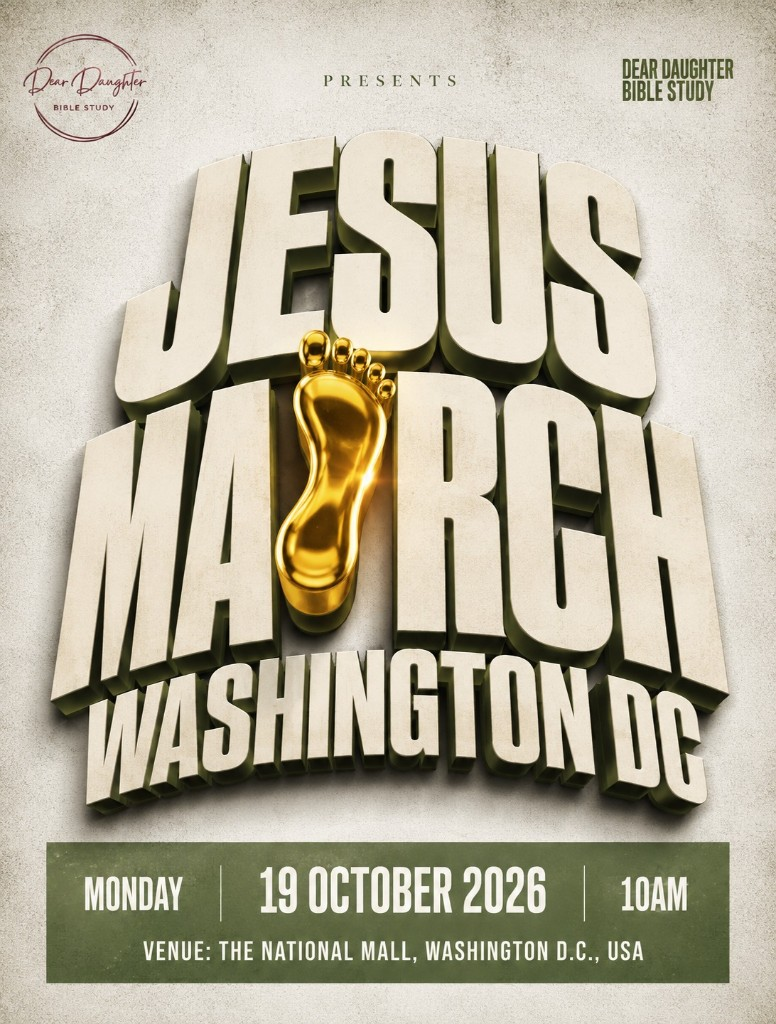
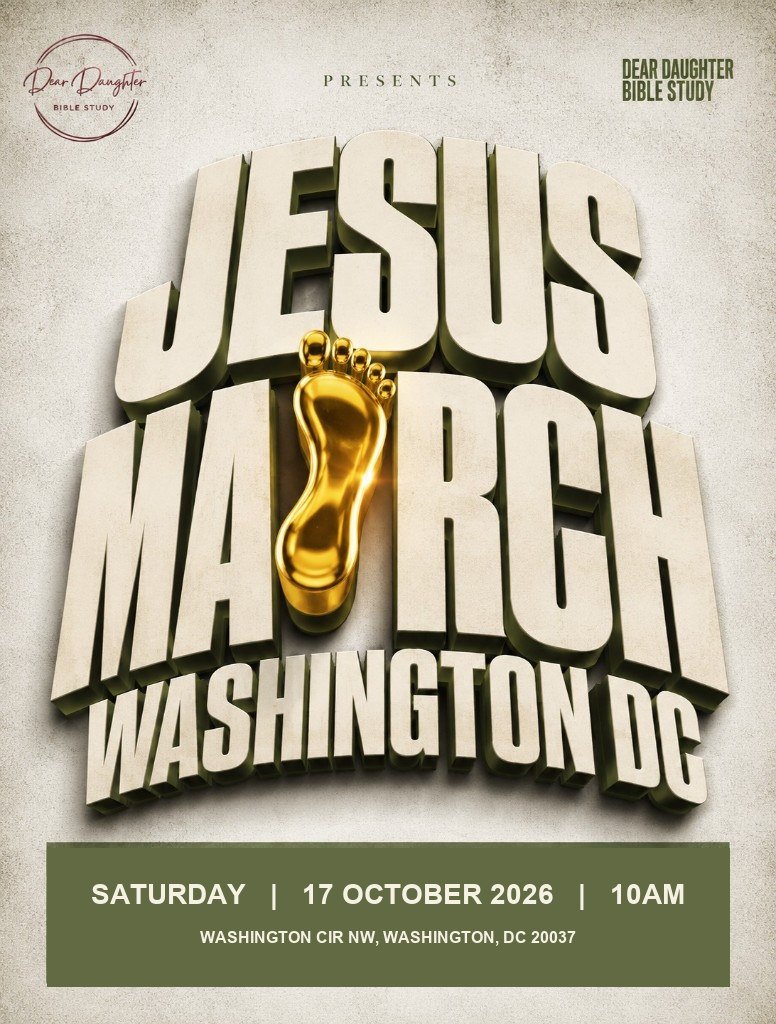
Correct the DC flyer to October 17 at Washington Cir NW and flesh out chapter planting.

Changed region(s): [[0.0619, 0.8125, 0.9588, 0.9688]]

diff --git a/src/app/chapters/page.tsx b/src/app/chapters/page.tsx
@@ -8,45 +8,62 @@ import { chapterKinds, organizer } from "@/lib/content";
 export const metadata: Metadata = {
   title: "Start a Bible Study Chapter",
   description:
-    "Plant a Dear Daughter Bible Study chapter in your state, city, or on a campus. Request a gathering and we will walk with you in the undiluted Word of God.",
+    "Plant a Dear Daughter Bible Study chapter in your city, state, or on a campus. Pray, form a core team, train in the Word, launch, and stay connected to the family.",
 };
 
 const tracks = [
   {
     title: "City & state chapters",
-    body: "Living in another state or a new city? Request a Dear Daughter Bible Study gathering. We will come teach the undiluted Word and walk with you as a local chapter takes root.",
+    body: "Like a satellite of the Houston study: a trained gathering in a new city that stays connected to Dear Daughter Bible Study Group each week. Meet in a home, a church (as guests), or a community room.",
   },
   {
     title: "Campus chapters",
-    body: "Students, staff, or a church near campus can host the study at school. Tell us your college — we will follow up, pray with you, and help you gather.",
+    body: "Students, staff, or a nearby church host the study where people already live and learn. Pray over the campus, find open hearts, gather a core team, and launch a weekly study.",
   },
 ];
 
-const steps = [
+const phases = [
   {
-    n: "1",
-    title: "Tell us where you are",
-    body: "City, state, or campus. We need a name, a place, and a willing heart — not a polished ministry plan.",
+    name: "Prepare",
+    kicker: "Pray first",
+    items: [
+      {
+        title: "Pray over the place",
+        body: "Walk the campus or the neighborhood. Ask the Lord who is already hungry for the Word — people of peace who will help you gather.",
+      },
+      {
+        title: "Send the request",
+        body: "Fill out the form. Dear Daughter Bible Study Group follows up from Houston, prays with you, and walks the planting with you. You are not doing this alone.",
+      },
+    ],
   },
   {
-    n: "2",
-    title: "We follow up",
-    body: "Dear Daughter Bible Study Group will reach out from Houston. We pray with you, hear the assignment, and talk through next steps.",
+    name: "Build",
+    kicker: "Don’t plant alone",
+    items: [
+      {
+        title: "Name a core team",
+        body: "Invite two or three faithful people before you launch publicly. Share the vision. A chapter needs more than one person carrying it.",
+      },
+      {
+        title: "Train in the Word",
+        body: "We send weekly materials and discussion guides. Class of David trains Glory-Carriers who can teach the undiluted Word. Your gathering stays connected to the established study, like a satellite class.",
+      },
+    ],
   },
   {
-    n: "3",
-    title: "Stay in the Word together",
-    body: "Chapters use weekly materials and discussion guides. Class of David trains Glory-Carriers who can teach the undiluted Word.",
-  },
-  {
-    n: "4",
-    title: "Gather — we come, or we walk with you",
-    body: "You can request that we come to your community. Campus chapters often start with a small, faithful group and grow from there.",
-  },
-  {
-    n: "5",
-    title: "Stay in the family",
-    body: "Thursday Zoom prayer, Jesus March, Houston Prayer City, and the work in Tulsa, D.C., and Nigeria. A chapter is not a new denomination — it is this same study in a new place.",
+    name: "Launch & grow",
+    kicker: "Then go public",
+    items: [
+      {
+        title: "Host the first gathering",
+        body: "Set a regular place and time. Invite openly. Keep it simple: Scripture, discussion, prayer, and a clear gospel. If your campus requires a student organization, we will help you think that through.",
+      },
+      {
+        title: "Stay in the family",
+        body: "Weekly Word, Thursday Zoom prayer, Jesus March, and the work in Houston, Tulsa, D.C., and Nigeria. Multiply by making disciples — not by becoming a new denomination.",
+      },
+    ],
   },
 ];
 
@@ -63,15 +80,15 @@ export default function ChaptersPage() {
             <span className="block text-gold">Bible study chapter</span>
           </h1>
           <p className="mx-auto mt-5 max-w-2xl text-base text-white/90 sm:text-lg md:mx-0">
-            Plant the study in another state, another city, or on a campus. {organizer.credit} You
-            can request a gathering in your community — and we will come.
+            Plant the study in another state, another city, or on a campus. Pray, gather a core team,
+            train in the Word, launch, and stay connected. {organizer.credit}
           </p>
           <div className="mt-8 flex w-full flex-col gap-3 sm:max-w-md sm:flex-row">
             <ButtonLink href="#start-chapter" className="w-full sm:w-auto">
               Request a chapter
             </ButtonLink>
-            <ButtonLink href="/#family" variant="light" className="w-full sm:w-auto">
-              About the study
+            <ButtonLink href="#how" variant="light" className="w-full sm:w-auto">
+              See the path
             </ButtonLink>
           </div>
         </div>
@@ -79,10 +96,10 @@ export default function ChaptersPage() {
 
       <section className="bg-white px-4 py-12 sm:px-5 md:py-20">
         <div className="mx-auto max-w-7xl">
-          <Kicker>Two ways to plant</Kicker>
-          <h2 className="mt-3 text-3xl font-bold text-midnight sm:text-4xl">States, cities, and campuses</h2>
+          <Kicker>Two kinds of chapters</Kicker>
+          <h2 className="mt-3 text-3xl font-bold text-midnight sm:text-4xl">Cities, states, and campuses</h2>
           <p className="mt-4 max-w-2xl text-ink-3">
-            {organizer.summary} The same Word. A new living room, church, or campus room.
+            {organizer.summary} The same undiluted Word. A new living room, church, or campus room.
           </p>
           <div className="mt-10 grid gap-6 md:grid-cols-2">
             {tracks.map((track) => (
@@ -95,19 +112,32 @@ export default function ChaptersPage() {
         </div>
       </section>
 
-      <section className="bg-mist px-4 py-12 sm:px-5 md:py-20">
+      <section id="how" className="scroll-mt-24 bg-mist px-4 py-12 sm:px-5 md:py-20">
         <div className="mx-auto max-w-7xl">
-          <Kicker>How a chapter begins</Kicker>
-          <h2 className="mt-3 text-3xl font-bold text-midnight sm:text-4xl">This is the path</h2>
-          <ol className="mt-10 grid gap-4 md:grid-cols-2 lg:grid-cols-5">
-            {steps.map((step) => (
-              <li key={step.n} className="rounded-3xl bg-white p-5">
-                <p className="text-sm font-black text-gold">{step.n}</p>
-                <h3 className="mt-2 text-lg font-bold text-midnight">{step.title}</h3>
-                <p className="mt-2 text-sm text-ink-3">{step.body}</p>
-              </li>
+          <Kicker>How chapters are planted</Kicker>
+          <h2 className="mt-3 text-3xl font-bold text-midnight sm:text-4xl">Prepare. Build. Launch.</h2>
+          <p className="mt-4 max-w-2xl text-ink-3">
+            Healthy plants start in prayer, grow with a core team, train before they go public, and
+            stay tied to the sending family. That is how we plant Dear Daughter chapters.
+          </p>
+          <div className="mt-10 grid gap-6 lg:grid-cols-3">
+            {phases.map((phase) => (
+              <article key={phase.name} className="rounded-3xl bg-white p-5 sm:p-8">
+                <p className="text-[10px] font-black tracking-[0.18em] text-gold uppercase">{phase.kicker}</p>
+                <h3 className="mt-2 text-2xl font-bold text-midnight">{phase.name}</h3>
+                <ol className="mt-6 space-y-5">
+                  {phase.items.map((item, i) => (
+                    <li key={item.title}>
+                      <p className="text-sm font-black text-navy">
+                        {i + 1}. {item.title}
+                      </p>
+                      <p className="mt-1 text-sm text-ink-3">{item.body}</p>
+                    </li>
+                  ))}
+                </ol>
+              </article>
             ))}
-          </ol>
+          </div>
         </div>
       </section>
 
@@ -116,25 +146,24 @@ export default function ChaptersPage() {
           <div>
             <Kicker tone="dark">Campus chapters</Kicker>
             <h2 className="mt-3 text-3xl font-bold sm:text-4xl">Bring the study to school</h2>
-            <p className="mt-4 text-white/85">
-              College is a door. A campus chapter is a Dear Daughter Bible Study that meets where
-              students already live, learn, and decide who they will follow.
-            </p>
             <ul className="mt-6 space-y-3 text-white/85">
-              <li>Open to men and women — students, staff, and friends nearby.</li>
-              <li>Start small. A faithful handful in the Word is a chapter.</li>
-              <li>If your school has a student-organization process, note that on the form and we will help you think it through.</li>
-              <li>Stay connected to Thursday prayer and the wider family, so you are not carrying this alone.</li>
+              <li>Pray on campus before you advertise. Ask the Lord for open, networked students.</li>
+              <li>Build a small leadership team. Don’t launch as a one-person club.</li>
+              <li>Keep a weekly rhythm: Word, discussion, prayer — then send people back to their friends.</li>
+              <li>If your school requires a recognized student organization, say so on the form. We will help you walk that.</li>
+              <li>Stay on Thursday Zoom prayer so Houston is covering you.</li>
             </ul>
           </div>
           <div>
             <Kicker tone="dark">City &amp; state chapters</Kicker>
             <h2 className="mt-3 text-3xl font-bold sm:text-4xl">The Word in your city</h2>
-            <p className="mt-4 text-white/85">
-              {organizer.body[0]} We meet with weekly materials and discussion guides, Class of David
-              training, and daily prayer.
-            </p>
-            <p className="mt-4 text-white/85">{organizer.body[2]}</p>
+            <ul className="mt-6 space-y-3 text-white/85">
+              <li>{organizer.body[0]}</li>
+              <li>Start as a satellite gathering connected to the Houston study — weekly materials, discussion guides, and a trained leader.</li>
+              <li>Churches can host without the study becoming a church program. Homes and community rooms work too.</li>
+              <li>As the group grows, form a prayer covering and raise local leadership through Class of David.</li>
+              <li>You can still request that we come in person to teach and help you launch.</li>
+            </ul>
           </div>
         </div>
       </section>
@@ -145,8 +174,8 @@ export default function ChaptersPage() {
             <Kicker>Send the request</Kicker>
             <h2 className="mt-3 text-3xl font-bold text-midnight sm:text-4xl">We’ll walk with you</h2>
             <p className="mt-4 text-ink-3">
-              Tell us whether this is a city, a state, or a campus. We follow up from Dear Daughter
-              Bible Study Group — the same family that organizes Jesus March.
+              The first step every planting ministry uses is the same: tell someone. We follow up,
+              coach the next steps, and stay with you through launch.
             </p>
             <p className="mt-4 text-sm text-muted">
               Our vision is to teach the undiluted Word of God to all nations and to make disciples
@@ -174,7 +203,8 @@ export default function ChaptersPage() {
                 { name: "city", label: "City", required: true },
                 { name: "state", label: "State", required: true },
                 { name: "campus", label: "Campus / school (if this is a campus chapter)" },
-                { name: "note", label: "When, where, and who is gathering with you?" },
+                { name: "team", label: "Who else is on your core team?" },
+                { name: "note", label: "Place, day/time, and anything we should pray into" },
               ]}
             />
           </div>

diff --git a/src/app/dc/page.tsx b/src/app/dc/page.tsx
@@ -15,17 +15,17 @@ const stamps = ["repeat", "logo", "date", "none"] as const;
 const dcStamp = {
   repeatLabel: "Jesus March DC",
   dateLabel: "Oct 17",
-  dateExtra: " · Washington Circle",
+  dateExtra: " · Washington Cir NW",
 };
 
 export const metadata: Metadata = {
   title: "Jesus March Washington DC",
   description:
-    "Join Jesus March Washington DC on Saturday, October 17, 2026, starting at Washington Circle. Worship, pray, and preach Jesus with Dear Daughter Bible Study Group.",
+    "Join Jesus March Washington DC on Saturday, October 17, 2026, starting at Washington Cir NW, Washington, DC 20037. Worship, pray, and preach Jesus with Dear Daughter Bible Study Group.",
   openGraph: {
     title: "Jesus March Washington DC — Saturday, October 17, 2026",
     description:
-      "Start at Washington Circle. March with us, watch live, or give. Organized by Dear Daughter Bible Study Group.",
+      "Start at Washington Cir NW, Washington, DC 20037. March with us, watch live, or give. Organized by Dear Daughter Bible Study Group.",
     url: "https://www.jesusmarchhtx.com/dc",
     images: ["/images/flyer-dc.png"],
   },
@@ -56,19 +56,16 @@ export default function DcPage() {
           <div className="tulsa-glow relative z-10 mx-auto w-full max-w-[240px] overflow-hidden rounded-[1.5rem] border-2 border-gold order-2 sm:max-w-sm md:order-1 md:max-w-md md:rounded-[2rem]">
             <Image
               src="/images/flyer-dc.png"
-              alt="Jesus March Washington DC flyer"
+              alt="Jesus March Washington DC flyer — Saturday, October 17, 2026 at 10AM, Washington Cir NW, Washington, DC 20037"
               width={1080}
               height={1350}
               className="h-auto w-full"
               priority
             />
-            <p className="bg-gold px-3 py-2 text-center text-[11px] font-black tracking-wide text-black uppercase sm:text-xs">
-              Saturday, October 17, 2026 · Washington Circle
-            </p>
           </div>
           <div className="order-1 min-w-0 text-center md:order-2 md:text-left">
             <p className="inline-flex max-w-full rounded-full border border-gold/50 bg-gold/15 px-3 py-1 text-[10px] font-black tracking-[0.12em] text-gold uppercase sm:px-4 sm:text-xs sm:tracking-[0.28em]">
-              Next march · Washington Circle
+              Next march · Washington Cir NW
             </p>
             <h1 className="mt-4 text-4xl font-black leading-[0.95] sm:text-5xl md:text-7xl">
               Jesus
@@ -76,13 +73,13 @@ export default function DcPage() {
             </h1>
             <p className="mx-auto mt-4 max-w-xl text-base text-white/90 sm:mt-5 sm:text-lg md:mx-0">
               The Lord said make His name known in Washington. We are going back — Saturday,
-              October 17, starting at Washington Circle.
+              October 17 at 10AM, starting at Washington Cir NW, Washington, DC 20037.
             </p>
             <dl className="mt-6 grid grid-cols-1 gap-3 sm:mt-8 sm:grid-cols-2 sm:gap-4">
               <Fact label="When" value="Saturday, October 17, 2026" />
-              <Fact label="Start" value="Washington Circle" />
-              <Fact label="City" value="Washington, D.C." />
-              <Fact label="Host" value="Dear Daughter Bible Study" />
+              <Fact label="Time" value="10:00 AM" />
+              <Fact label="Start" value="Washington Cir NW" />
+              <Fact label="City" value="Washington, DC 20037" />
             </dl>
             <div className="mt-6 grid grid-cols-1 gap-3 sm:mt-8 sm:flex sm:flex-wrap">
               <ButtonLink href="#join-dc" className="w-full sm:w-auto">
@@ -203,8 +200,9 @@ export default function DcPage() {
             <h2 className="mt-3 text-3xl font-bold sm:text-4xl md:text-5xl">March with us, serve, or watch live</h2>
             <ol className="mt-8 space-y-5 text-white/90">
               <li>
-                <strong className="text-gold">1. Be there.</strong> Meet at Washington Circle on Saturday,
-                October 17. Wear comfortable shoes and come ready to worship.
+                <strong className="text-gold">1. Be there.</strong> Meet at Washington Cir NW,
+                Washington, DC 20037 on Saturday, October 17 at 10AM. Wear comfortable shoes and
+                come ready to worship.
               </li>
               <li>
                 <strong className="text-gold">2. Tell us you’re coming.</strong> Fill out the form so we

diff --git a/src/lib/content.ts b/src/lib/content.ts
@@ -72,7 +72,7 @@ export const marches = [
       "The date was set for October 19, 2024, the only weekend without a major Christian event in the area — another confirmation that God was leading the way.",
       "Now we have a new challenge: gather one million people to march in DC, lifting up the name of Jesus and praying over our nation. The United States is a shining light on a hill.",
     ],
-    cta: "Join us Saturday, October 17, 2026 at Washington Circle in Washington, D.C.",
+    cta: "Join us Saturday, October 17, 2026 at Washington Cir NW, Washington, DC 20037.",
     images: ["/images/dc-1.jpg", "/images/gallery/g23.jpg", "/images/gallery/g21.jpg"],
   },
   {
@@ -311,10 +311,10 @@ export const nextPrograms = [
   {
     city: "Washington, D.C.",
     title: "Jesus March Washington DC",
-    when: "Saturday, 17 October 2026",
-    where: "Washington Circle, Washington D.C.",
+    when: "Saturday, 17 October 2026 · 10AM",
+    where: "Washington Cir NW, Washington, DC 20037",
     href: "/dc",
-    image: "/images/gallery/g23.jpg",
+    image: "/images/flyer-dc.png",
   },
   {
     city: "Nigeria",

diff --git a/src/lib/links.ts b/src/lib/links.ts
@@ -8,7 +8,7 @@ export const links = {
   instagramGlobal: "https://www.instagram.com/ddbs.global/",
   facebook: "https://www.facebook.com/JesusMarchHTX/",
   tulsaMaps: "https://www.google.com/maps/search/?api=1&query=Tulsa+City+Hall",
-  dcMaps: "https://www.google.com/maps/search/?api=1&query=Washington+Circle+Washington+DC",
+  dcMaps: "https://www.google.com/maps/search/?api=1&query=Washington+Cir+NW+Washington+DC+20037",
   tulsaPrayerZoom:
     "https://us04web.zoom.us/j/78817813182?pwd=EII60Gsab4G8P5vPwHu4qhweZ1pQKa.1",
   recEventbrite: "https://theRec.eventbrite.com",
